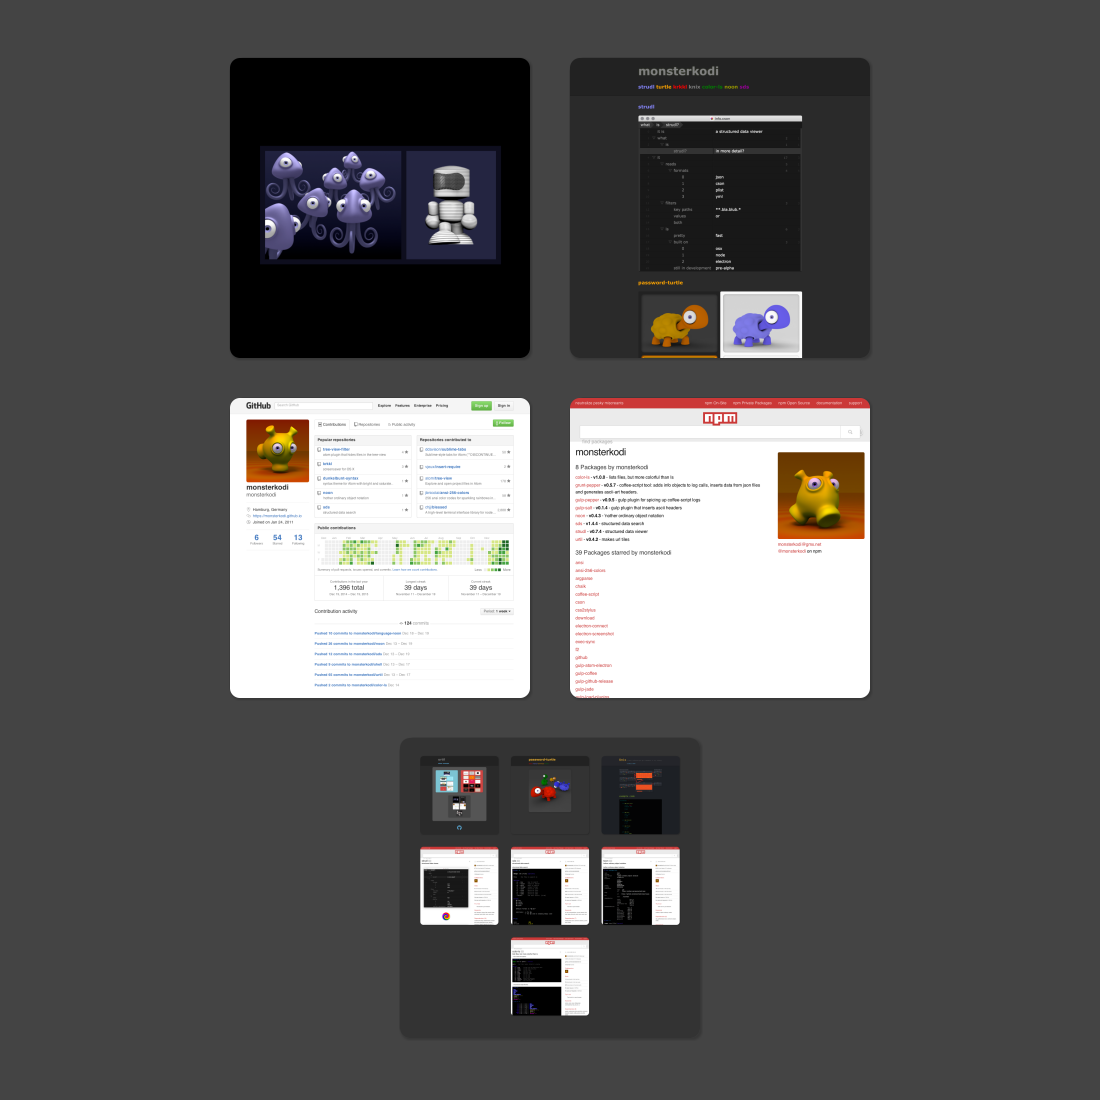
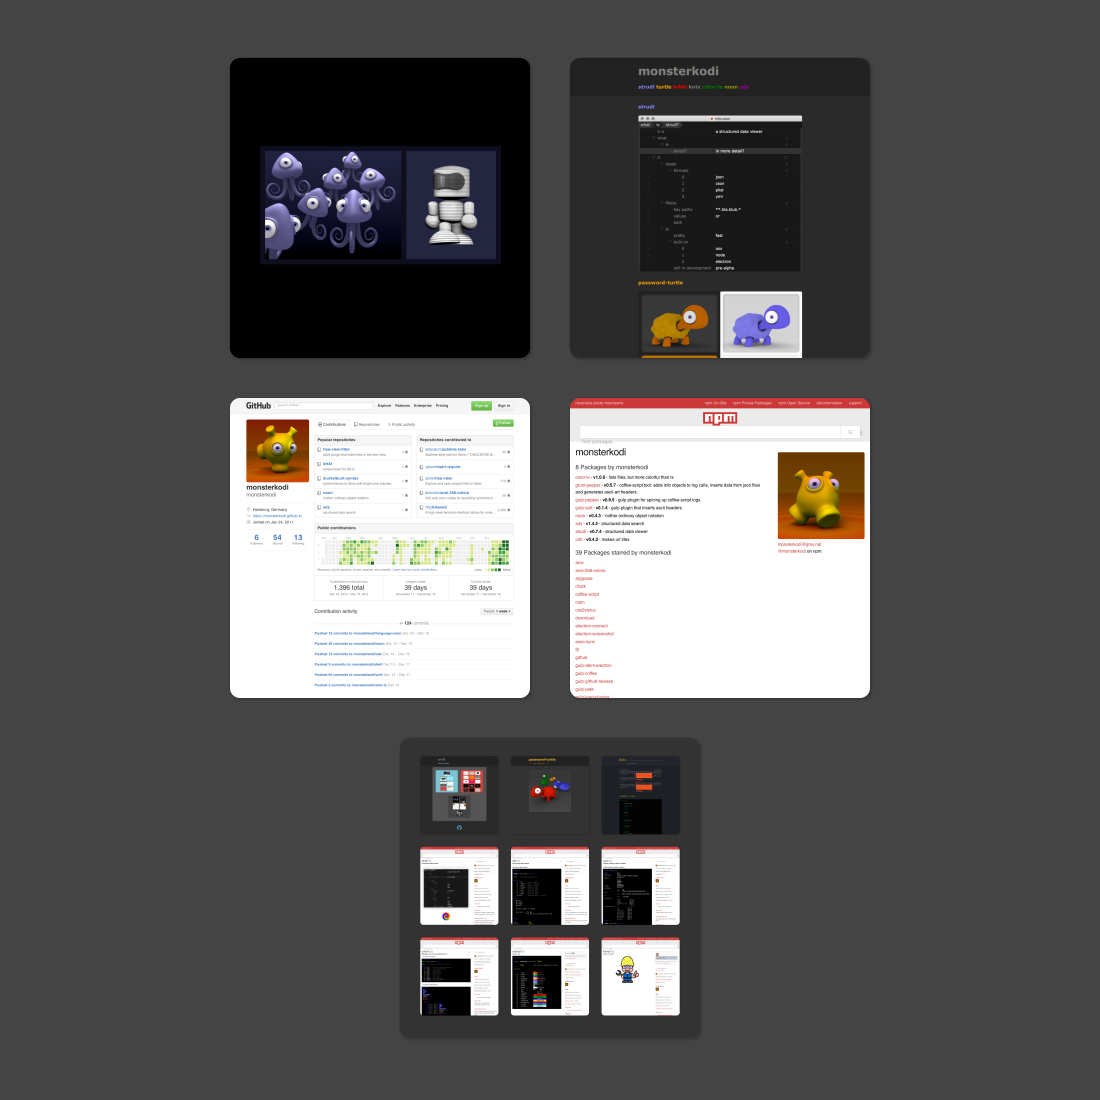
about and example

Changed region(s): [[0.3709, 0.8345, 0.6182, 0.9273]]

diff --git a/examples/projects.html b/examples/projects.html
@@ -44,6 +44,9 @@ img.site:hover {
   white-space: nowrap;
   text-align: center;
 }
+.site.name.on {
+  display: unset;
+}
 *:focus {
   border-bottom: 3px solid #fff;
 }
@@ -70,20 +73,29 @@ img.site:hover {
   };
 
   onMouseOver = function(event) {
-    var name, tile;
+    var name, overStyle, tile;
     if (indexOf.call(event.target.classList, 'site') >= 0) {
       tile = tileForElement(event.target);
       name = tile != null ? tile.getElementsByClassName('name')[0] : void 0;
-      return name != null ? name.style.display = 'block' : void 0;
+      overStyle = "unset";
+      if (indexOf.call(name.classList, "off") >= 0) {
+        overStyle = "none";
+      }
+      return name != null ? name.style.display = overStyle : void 0;
     }
   };
 
   onMouseOut = function(event) {
-    var name, tile;
+    var name, outStyle, tile;
     if (indexOf.call(event.target.classList, 'site') >= 0) {
       tile = tileForElement(event.target);
       name = tile != null ? tile.getElementsByClassName('name')[0] : void 0;
-      return name != null ? name.style.display = 'none' : void 0;
+      outStyle = "none";
+      if (indexOf.call(name.classList, "on") >= 0) {
+        outStyle = "unset";
+      }
+      console.log(name.classList);
+      return name != null ? name.style.display = outStyle : void 0;
     }
   };
 
@@ -191,15 +203,17 @@ img.site:hover {
 </html>
 <body>
   <div id="stage"><span class="site tile">
-      <div class="site name">urtil</div><a href="http://monsterkodi.github.io/urtil" class="site link"><img src="img/monsterkodi.github.io.urtil.png" width="250" height="250" class="site image"/></a></span><span class="site tile">
-      <div class="site name">password-turtle</div><a href="http://monsterkodi.github.io/password-turtle" class="site link"><img src="img/monsterkodi.github.io.password-turtle.png" width="250" height="250" class="site image"/></a></span><span class="site tile">
-      <div class="site name">knix</div><a href="http://monsterkodi.github.io/knix" class="site link"><img src="img/monsterkodi.github.io.knix.png" width="250" height="250" class="site image"/></a></span>
+      <div class="site name over">urtil</div><a href="http://monsterkodi.github.io/urtil" class="site link"><img src="img/monsterkodi.github.io.urtil.png" width="250" height="250" class="site image"/></a></span><span class="site tile">
+      <div class="site name over">password-turtle</div><a href="http://monsterkodi.github.io/password-turtle" class="site link"><img src="img/monsterkodi.github.io.password-turtle.png" width="250" height="250" class="site image"/></a></span><span class="site tile">
+      <div class="site name over">knix</div><a href="http://monsterkodi.github.io/knix" class="site link"><img src="img/monsterkodi.github.io.knix.png" width="250" height="250" class="site image"/></a></span>
     <div class="break"></div><span class="site tile">
-      <div class="site name">strudl</div><a href="http://www.npmjs.com/package/strudl" class="site link"><img src="img/www.npmjs.com.package.strudl.png" width="250" height="250" class="site image"/></a></span><span class="site tile">
-      <div class="site name">sds</div><a href="http://www.npmjs.com/package/sds" class="site link"><img src="img/www.npmjs.com.package.sds.png" width="250" height="250" class="site image"/></a></span><span class="site tile">
-      <div class="site name">noon</div><a href="http://www.npmjs.com/package/noon" class="site link"><img src="img/www.npmjs.com.package.noon.png" width="250" height="250" class="site image"/></a></span>
+      <div class="site name over">strudl</div><a href="http://www.npmjs.com/package/strudl" class="site link"><img src="img/www.npmjs.com.package.strudl.png" width="250" height="250" class="site image"/></a></span><span class="site tile">
+      <div class="site name over">sds</div><a href="http://www.npmjs.com/package/sds" class="site link"><img src="img/www.npmjs.com.package.sds.png" width="250" height="250" class="site image"/></a></span><span class="site tile">
+      <div class="site name over">noon</div><a href="http://www.npmjs.com/package/noon" class="site link"><img src="img/www.npmjs.com.package.noon.png" width="250" height="250" class="site image"/></a></span>
     <div class="break"></div><span class="site tile">
-      <div class="site name">color-ls</div><a href="http://www.npmjs.com/package/color-ls" class="site link"><img src="img/www.npmjs.com.package.color-ls.png" width="250" height="250" class="site image"/></a></span>
+      <div class="site name over">color-ls</div><a href="http://www.npmjs.com/package/color-ls" class="site link"><img src="img/www.npmjs.com.package.color-ls.png" width="250" height="250" class="site image"/></a></span><span class="site tile">
+      <div class="site name over">colorcat</div><a href="http://www.npmjs.com/package/colorcat" class="site link"><img src="img/www.npmjs.com.package.colorcat.png" width="250" height="250" class="site image"/></a></span><span class="site tile">
+      <div class="site name over">konrad</div><a href="http://www.npmjs.com/package/konrad" class="site link"><img src="img/www.npmjs.com.package.konrad.png" width="250" height="250" class="site image"/></a></span>
     <div class="break"></div>
   </div>
 </body>

diff --git a/examples/tiles.html b/examples/tiles.html
@@ -44,6 +44,9 @@ img.site:hover {
   white-space: nowrap;
   text-align: center;
 }
+.site.name.on {
+  display: unset;
+}
 *:focus {
   border-bottom: 3px solid #000;
 }
@@ -70,20 +73,29 @@ img.site:hover {
   };
 
   onMouseOver = function(event) {
-    var name, tile;
+    var name, overStyle, tile;
     if (indexOf.call(event.target.classList, 'site') >= 0) {
       tile = tileForElement(event.target);
       name = tile != null ? tile.getElementsByClassName('name')[0] : void 0;
-      return name != null ? name.style.display = 'block' : void 0;
+      overStyle = "unset";
+      if (indexOf.call(name.classList, "off") >= 0) {
+        overStyle = "none";
+      }
+      return name != null ? name.style.display = overStyle : void 0;
     }
   };
 
   onMouseOut = function(event) {
-    var name, tile;
+    var name, outStyle, tile;
     if (indexOf.call(event.target.classList, 'site') >= 0) {
       tile = tileForElement(event.target);
       name = tile != null ? tile.getElementsByClassName('name')[0] : void 0;
-      return name != null ? name.style.display = 'none' : void 0;
+      outStyle = "none";
+      if (indexOf.call(name.classList, "on") >= 0) {
+        outStyle = "unset";
+      }
+      console.log(name.classList);
+      return name != null ? name.style.display = outStyle : void 0;
     }
   };
 
@@ -191,16 +203,16 @@ img.site:hover {
 </html>
 <body>
   <div id="stage"><span class="site tile">
-      <div class="site name">github.com</div><a href="http://github.com/" class="site link"><img src="img/github.com.png" width="300" height="210" class="site image"/></a></span>
+      <div class="site name over">github.com</div><a href="http://github.com/" class="site link"><img src="img/github.com.png" width="300" height="210" class="site image"/></a></span>
     <div class="break"></div><span class="site tile">
-      <div class="site name">atom.io</div><a href="http://atom.io/" class="site link"><img src="img/atom.io.png" width="300" height="210" class="site image"/></a></span><span class="site tile">
-      <div class="site name">electron.atom.io</div><a href="http://electron.atom.io/" class="site link"><img src="img/electron.atom.io.png" width="300" height="210" class="site image"/></a></span>
+      <div class="site name over">atom.io</div><a href="http://atom.io/" class="site link"><img src="img/atom.io.png" width="300" height="210" class="site image"/></a></span><span class="site tile">
+      <div class="site name over">electron.atom.io</div><a href="http://electron.atom.io/" class="site link"><img src="img/electron.atom.io.png" width="300" height="210" class="site image"/></a></span>
     <div class="break"></div><span class="site tile">
-      <div class="site name">nodejs.org</div><a href="http://nodejs.org/" class="site link"><img src="img/nodejs.org.png" width="300" height="210" class="site image"/></a></span><span class="site tile">
-      <div class="site name">npmjs.com</div><a href="http://npmjs.com/" class="site link"><img src="img/npmjs.com.png" width="300" height="210" class="site image"/></a></span>
+      <div class="site name over">nodejs.org</div><a href="http://nodejs.org/" class="site link"><img src="img/nodejs.org.png" width="300" height="210" class="site image"/></a></span><span class="site tile">
+      <div class="site name over">npmjs.com</div><a href="http://npmjs.com/" class="site link"><img src="img/npmjs.com.png" width="300" height="210" class="site image"/></a></span>
     <div class="break"></div><span class="site tile">
-      <div class="site name">gulpjs.com</div><a href="http://gulpjs.com/" class="site link"><img src="img/gulpjs.com.png" width="300" height="210" class="site image"/></a></span><span class="site tile">
-      <div class="site name">gruntjs.com</div><a href="http://gruntjs.com/" class="site link"><img src="img/gruntjs.com.png" width="300" height="210" class="site image"/></a></span>
+      <div class="site name over">gulpjs.com</div><a href="http://gulpjs.com/" class="site link"><img src="img/gulpjs.com.png" width="300" height="210" class="site image"/></a></span><span class="site tile">
+      <div class="site name over">gruntjs.com</div><a href="http://gruntjs.com/" class="site link"><img src="img/gruntjs.com.png" width="300" height="210" class="site image"/></a></span>
     <div class="break"></div>
   </div>
 </body>

diff --git a/examples/monsterkodi.html b/examples/monsterkodi.html
@@ -44,6 +44,9 @@ img.site:hover {
   white-space: nowrap;
   text-align: center;
 }
+.site.name.on {
+  display: unset;
+}
 *:focus {
   border-bottom: 3px solid #fff;
 }
@@ -70,20 +73,29 @@ img.site:hover {
   };
 
   onMouseOver = function(event) {
-    var name, tile;
+    var name, overStyle, tile;
     if (indexOf.call(event.target.classList, 'site') >= 0) {
       tile = tileForElement(event.target);
       name = tile != null ? tile.getElementsByClassName('name')[0] : void 0;
-      return name != null ? name.style.display = 'block' : void 0;
+      overStyle = "unset";
+      if (indexOf.call(name.classList, "off") >= 0) {
+        overStyle = "none";
+      }
+      return name != null ? name.style.display = overStyle : void 0;
     }
   };
 
   onMouseOut = function(event) {
-    var name, tile;
+    var name, outStyle, tile;
     if (indexOf.call(event.target.classList, 'site') >= 0) {
       tile = tileForElement(event.target);
       name = tile != null ? tile.getElementsByClassName('name')[0] : void 0;
-      return name != null ? name.style.display = 'none' : void 0;
+      outStyle = "none";
+      if (indexOf.call(name.classList, "on") >= 0) {
+        outStyle = "unset";
+      }
+      console.log(name.classList);
+      return name != null ? name.style.display = outStyle : void 0;
     }
   };
 
@@ -191,13 +203,13 @@ img.site:hover {
 </html>
 <body>
   <div id="stage"><span class="site tile">
-      <div class="site name">monsterkodi.net</div><a href="http://monsterkodi.net/" class="site link"><img src="monsterkodi.net.png" width="300" height="300" class="site image"/></a></span><span class="site tile">
-      <div class="site name">monsterkodi.github.io</div><a href="http://monsterkodi.github.io/" class="site link"><img src="img/monsterkodi.github.io.png" width="300" height="300" class="site image"/></a></span>
+      <div class="site name off">monsterkodi.net</div><a href="http://monsterkodi.net/" class="site link"><img src="monsterkodi.net.png" width="300" height="300" class="site image"/></a></span><span class="site tile">
+      <div class="site name off">monsterkodi.github.io</div><a href="http://monsterkodi.github.io/" class="site link"><img src="img/monsterkodi.github.io.png" width="300" height="300" class="site image"/></a></span>
     <div class="break"></div><span class="site tile">
-      <div class="site name">monsterkodi</div><a href="http://github.com/monsterkodi" class="site link"><img src="img/github.com.monsterkodi.png" width="300" height="300" class="site image"/></a></span><span class="site tile">
-      <div class="site name">~monsterkodi</div><a href="http://npmjs.com/~monsterkodi" class="site link"><img src="img/npmjs.com._monsterkodi.png" width="300" height="300" class="site image"/></a></span>
+      <div class="site name off">monsterkodi</div><a href="http://github.com/monsterkodi" class="site link"><img src="img/github.com.monsterkodi.png" width="300" height="300" class="site image"/></a></span><span class="site tile">
+      <div class="site name off">~monsterkodi</div><a href="http://npmjs.com/~monsterkodi" class="site link"><img src="img/npmjs.com._monsterkodi.png" width="300" height="300" class="site image"/></a></span>
     <div class="break"></div><span class="site tile">
-      <div class="site name">projects</div><a href="./projects.html" class="site link"><img src="img/projects.png" width="300" height="300" class="site image"/></a></span>
+      <div class="site name off">projects</div><a href="./projects.html" class="site link"><img src="img/projects.png" width="300" height="300" class="site image"/></a></span>
     <div class="break"></div>
   </div>
 </body>

diff --git a/examples/example.html b/examples/example.html
@@ -44,6 +44,9 @@ img.site:hover {
   white-space: nowrap;
   text-align: center;
 }
+.site.name.on {
+  display: unset;
+}
 *:focus {
   border-bottom: 3px solid #fff;
 }
@@ -70,20 +73,29 @@ img.site:hover {
   };
 
   onMouseOver = function(event) {
-    var name, tile;
+    var name, overStyle, tile;
     if (indexOf.call(event.target.classList, 'site') >= 0) {
       tile = tileForElement(event.target);
       name = tile != null ? tile.getElementsByClassName('name')[0] : void 0;
-      return name != null ? name.style.display = 'block' : void 0;
+      overStyle = "unset";
+      if (indexOf.call(name.classList, "off") >= 0) {
+        overStyle = "none";
+      }
+      return name != null ? name.style.display = overStyle : void 0;
     }
   };
 
   onMouseOut = function(event) {
-    var name, tile;
+    var name, outStyle, tile;
     if (indexOf.call(event.target.classList, 'site') >= 0) {
       tile = tileForElement(event.target);
       name = tile != null ? tile.getElementsByClassName('name')[0] : void 0;
-      return name != null ? name.style.display = 'none' : void 0;
+      outStyle = "none";
+      if (indexOf.call(name.classList, "on") >= 0) {
+        outStyle = "unset";
+      }
+      console.log(name.classList);
+      return name != null ? name.style.display = outStyle : void 0;
     }
   };
 
@@ -191,9 +203,9 @@ img.site:hover {
 </html>
 <body>
   <div id="stage"><span class="site tile">
-      <div class="site name">tiles</div><a href="./tiles.html" class="site link"><img src="img/tiles.png" width="300" height="300" class="site image"/></a></span><span class="site tile">
-      <div class="site name">useless</div><a href="./useless.html" class="site link"><img src="img/useless.png" width="300" height="300" class="site image"/></a></span><span class="site tile">
-      <div class="site name">monsterkodi</div><a href="./monsterkodi.html" class="site link"><img src="img/monsterkodi.png" width="300" height="300" class="site image"/></a></span>
+      <div class="site name over">tiles</div><a href="./tiles.html" class="site link"><img src="img/tiles.png" width="300" height="300" class="site image"/></a></span><span class="site tile">
+      <div class="site name over">useless</div><a href="./useless.html" class="site link"><img src="img/useless.png" width="300" height="300" class="site image"/></a></span><span class="site tile">
+      <div class="site name over">monsterkodi</div><a href="./monsterkodi.html" class="site link"><img src="img/monsterkodi.png" width="300" height="300" class="site image"/></a></span>
     <div class="break"></div>
   </div>
 </body>
